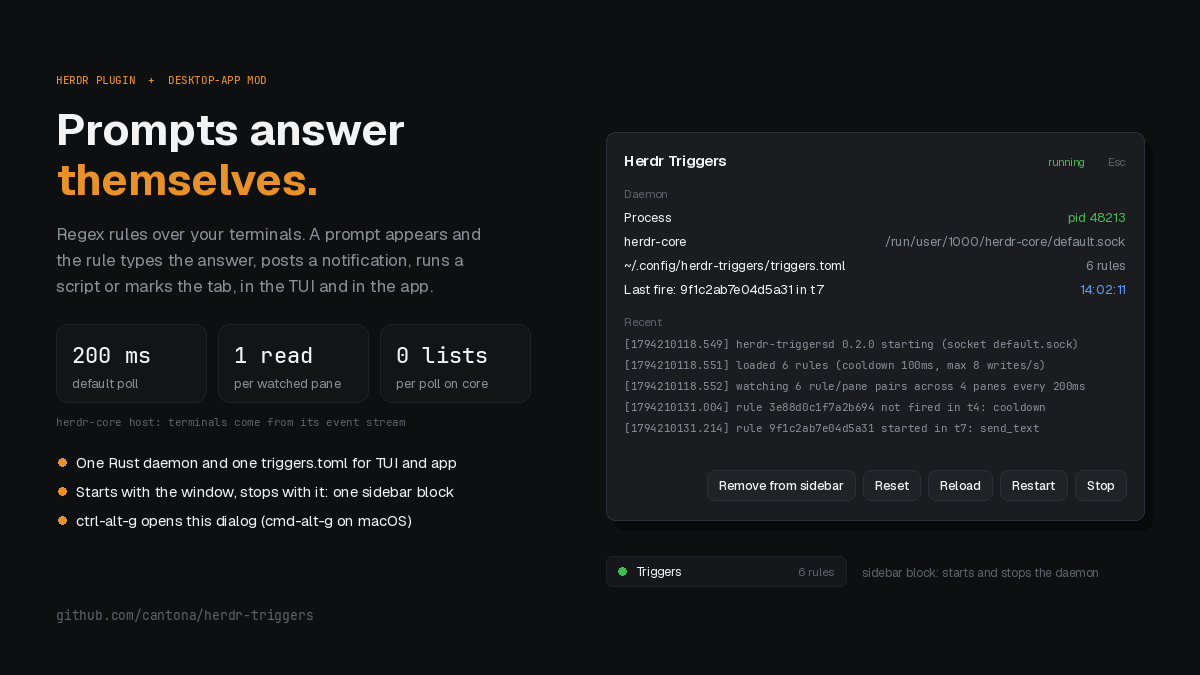
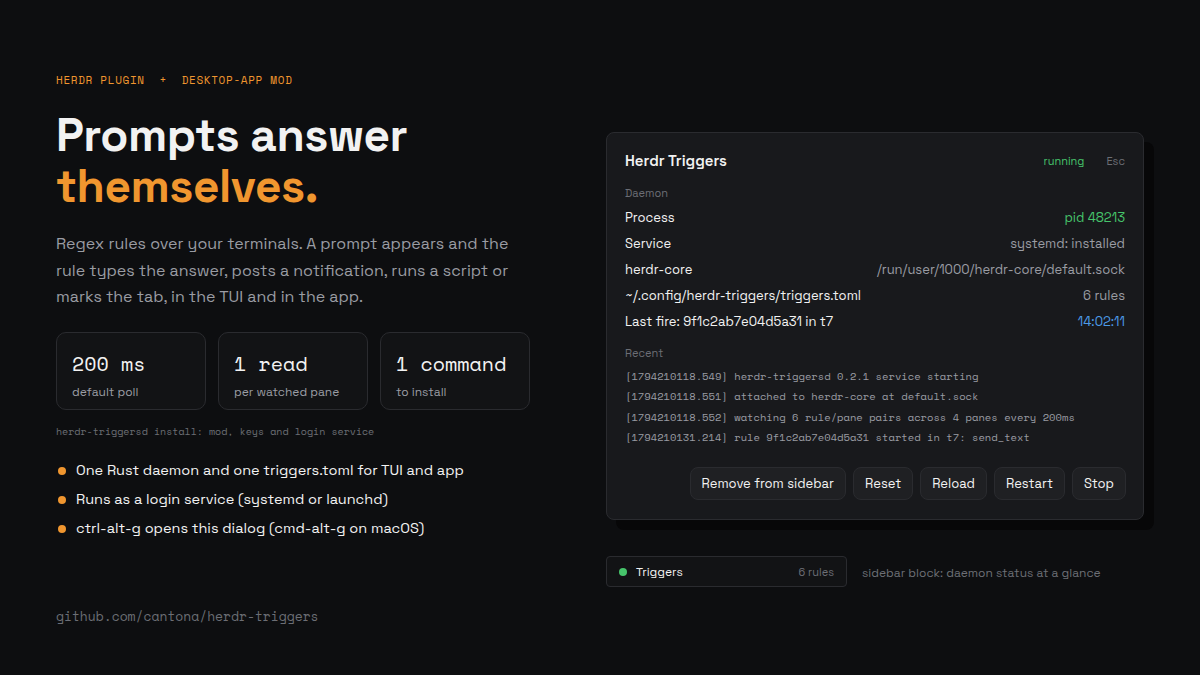
docs: describe the one-command install and the login service

diff --git a/RECIPE.md b/RECIPE.md
@@ -6,8 +6,8 @@ terminals: a prompt matches, and the rule types the answer, posts a desktop
 notification, runs a script or marks the tab. One `triggers.toml` serves both.
 
 A dialog, opened with `ctrl-alt-g` (`cmd-alt-g` on macOS), shows the daemon
-and runs its commands. A small sidebar block starts the daemon when the
-window opens, and the daemon leaves by itself once the app has quit.
+and runs its commands. The daemon itself is a login service that waits for
+herdr-core and follows it; an optional sidebar block shows its state.
 
 ![Herdr Triggers](preview.png)
 
@@ -15,21 +15,56 @@ window opens, and the daemon leaves by itself once the app has quit.
 
 ```sh
 cargo install --locked --git https://github.com/cantona/herdr-triggers
-mkdir -p ~/.config/herdr-app/mods
-cp -r mods/herdr-triggers ~/.config/herdr-app/mods/
+herdr-triggersd install          # shows the plan, asks y/N
 ```
 
-Merge `keys.json` into `~/.config/herdr-app/keys.json`.
+`install` prints one line per item (`create`, `update`, `unchanged`,
+`enable` or `start` for a service file whose service is not enabled or not
+running, or `skip` with the reason in the last column), then asks
+`Apply? [y/N]` on stderr. An `update` or `remove` of a mod file says so
+when local edits there would be lost. `--yes` applies without asking,
+`--dry-run` only prints. Without a terminal on both stdin and stderr, and
+without `--yes`, it prints the plan and exits 2. Run it as your user: as
+root with someone else's `HOME` (`sudo`) it refuses before touching
+anything, and it refuses a relative `XDG_CONFIG_HOME`, `XDG_STATE_HOME`,
+`HERDR_TRIGGERS_CONFIG_DIR`, `HERDR_TRIGGERS_STATE_DIR` or
+`HERDR_APP_HOME`. Nothing is written until the whole plan is computed,
+and the plan already checks that each file it writes can be written; a
+step that still fails stops the run and names the step, and running
+`install` again finishes the job. A `keys.json` that is not valid JSON
+(normal while you edit it: the app keeps its last good keymap) skips the
+two keys and nothing else; fix it and run `install` again.
+
+| Item | What install does | What uninstall does |
+|---|---|---|
+| `mods/herdr-triggers/main.js`, `mod.json` under the app home (`HERDR_APP_HOME` or `~/.config/herdr-app`) | writes them from the binary; other files there are left alone | removes the two and the app's own `gpui-kit.d.ts` and `jsconfig.json` (plain files only), then the folder; anything else there keeps the folder, and the plan says what |
+| `keys.json` `global`: `ctrl-alt-g`, `cmd-alt-g` | adds a missing key; a key bound (in any spelling of the same chord: `alt-ctrl-g`, `option-cmd-g`, any case) to something else, in `global` or in a `terminal` or `layout:<name>` section that takes precedence, is skipped, never overwritten; key order is kept, but the file is written back with 2-space indentation, and a key listed twice keeps only its last value. Never creates the file: the app writes it on first run, so open the app once before installing. After this edit the app stops adding its new default shortcuts to the file | removes only keys that still open this mod; the file stays |
+| `~/.config/herdr-triggers` | links it to the TUI plugin's config when that exists and the path is free | leaves it: it points at your rules |
+| login service | Linux: `herdr-triggers.service` in the user unit folder the systemd user manager searches (its `UnitPath`, read with `busctl --user`; `~/.config/systemd/user` when it lists none, and the plan says so), then `systemctl --user enable --now`. Where systemd does not run at all (no `/run/systemd/system`: a container, a distro without it) it is skipped, and `herdr-triggersd --host core start` runs the daemon detached. Where systemd runs but this session cannot reach the user manager (`su -`, `sudo -iu`, cron, a shell without `XDG_RUNTIME_DIR`), it is skipped too, with a note to run install from your desktop session, and a running daemon is left alone. macOS: `~/Library/LaunchAgents/io.github.cantona.herdr-triggers.plist`, then `launchctl bootstrap` | `disable --now` or `bootout`, then removes the file. Without systemd it only removes `~/.config/systemd/user/herdr-triggers.service`; with systemd out of reach from the session it leaves the service alone and says to run uninstall from your desktop session (the rest of uninstall still runs) |
+
+The service runs the binary at the path your shell finds it (a
+`~/.local/bin` symlink stays a symlink), else the one install runs from,
+and the plan's service line names it (`runs <path>`): an install from a
+build tree would tie the service to that tree. It runs with your shell's
+`PATH`, so rule scripts and `notify-send` resolve as they do for you. Every
+directory variable is pinned in the unit or plist as the command line
+resolves it:
+`XDG_CONFIG_HOME` and `XDG_STATE_HOME` always (defaults included), and
+`HERDR_TRIGGERS_CONFIG_DIR`, `HERDR_TRIGGERS_STATE_DIR` and `HERDR_APP_HOME`
+(for `tab_mark`) as your shell has them, or empty when it does not. So the
+service reads the rules and state the command line does, whatever the
+service manager's own environment says. Run `install` again after changing
+any of them. A daemon for
+the default core that the service did not start is stopped first, because
+it would hold the lock; install checks the default core's daemon from
+whichever core terminal it runs in. Should one hold the lock anyway, the
+service logs `another herdr-triggersd holds the lock; waiting for it` once
+and takes over when that daemon exits.
+
+`herdr-triggersd uninstall` takes the same flags.
 
 Rules and secrets live in `~/.config/herdr-triggers/` (`triggers.toml`, and
-`secrets.toml` with mode 0600). If you use the TUI plugin too, share its
-directory with one symlink:
-
-```sh
-ln -s ~/.config/herdr/plugins/config/cantona.herdr-triggers ~/.config/herdr-triggers
-```
-
-The rule schema is in the README.
+`secrets.toml` with mode 0600). The rule schema is in the README.
 
 ## What you see
 
@@ -37,9 +72,14 @@ The rule schema is in the README.
 corners, 13px text.
 
 - **Title row:** "Herdr Triggers" in 15px semibold `foreground`; the state
-  word on the right: "running" (`working`), "stopped" (`idle`), "error"
-  (`blocked`); a dim "Esc" hint.
-- **Daemon:** the process (`pid N` or "not running"), the herdr-core socket,
+  word on the right: "running" (`working`), "waiting" (`idle`), "stopped"
+  (`idle`), "error" (`blocked`); a dim "Esc" hint.
+- **Daemon:** the process (`pid N`, `pid N, waiting for herdr-core`, or "not
+  running"), the service ("systemd: installed", "launchd: installed", the
+  same with ", watches the default core, not this one" in an app on another
+  core session and " (not reachable from here)" when the app's session
+  cannot reach the systemd user manager, or "not installed; run
+  herdr-triggersd install"), the herdr-core socket,
   the config path with its rule count (or "config error" and the message),
   and the last fire: rule, terminal and local time.
 - **Recent:** the last 20 daemon log lines in monospace, scrolling past
@@ -56,16 +96,51 @@ dot in the same state colors, "Triggers", and the rule count in `dim`. Below
 
 ## How it behaves
 
-- **Start and stop follow the app.** The block's `init` runs
-  `herdr-triggersd --host core --follow-app start` (idempotent). A daemon
-  started with `--follow-app` checks every 5s that the app's socket
-  (`~/.config/herdr-app/herdr-app.sock`, or under `HERDR_APP_HOME`)
-  answers, and exits once it has not for 10s, so an update's restart does
-  not stop it. The dialog's Start and Restart pass the same flag. Without
-  the block in the shown layout nothing starts automatically; use Start.
-- **Stop holds.** After Stop the block does not start the daemon again, not
-  on a layout switch, a mod reload or the next launch, until Start or
-  Restart. The dialog shows "The sidebar starts it: no" meanwhile.
+- **The service runs the daemon.** It starts at login and runs
+  `herdr-triggersd --host core service`. herdr-core has no stable unit to
+  bind to (it runs as transient, hash-named jobs), so the daemon waits for
+  core's socket instead: it tries every 2s, attaches once the core answers,
+  and when the core goes away it logs `herdr-core gone; waiting for it` and
+  waits again. While it waits, `status` says "waiting for herdr-core" and
+  the dialog's state word is "waiting". That starts only once the engine
+  gives up on the core, 30s after it stopped answering; until then `status`
+  and the dialog still say "running". Closing and reopening the app does
+  not touch it. If core's config moves the socket to another name, the
+  service logs `herdr-core's socket moved to <path>; restarting to follow
+  it` and exits 1, and the service manager starts it again with the state
+  directory for the new name.
+- **Start, Stop, Restart.** With the service installed, Start (and
+  `herdr-triggersd --host core start`) asks the service manager to start
+  it, so it stays supervised. That holds only for the default core the
+  service watches; a start for another core session (`--session work`, or
+  from one of its terminals) detaches a daemon for that core. The service
+  is restarted 5s after any exit (`Restart=always`, launchd's `KeepAlive`),
+  so a plain `kill` or a crash does not turn triggers off. Stop therefore
+  goes through the service manager too (`systemctl --user stop`, or
+  `launchctl bootout` of the agent), and holds until Start, Restart, a
+  re-run of `install` or the next login. A daemon the service did not start
+  is stopped as well, after the service, so nothing takes its place. If the
+  manager refuses, `stop` reports its error and exits 1 without signalling
+  the service's daemon, which the manager would only start again. From a
+  session that cannot reach the systemd user manager at all (`su -`, cron),
+  `start`, `stop` and `restart` aimed at the service's core signal and start
+  nothing: they exit 1 and say to run them from your desktop session, and
+  `status` shows the service as installed but not reachable (the dialog:
+  "installed (not reachable from here)"). For another core, or without
+  the service, Stop sends SIGTERM as before;
+  there, a service waiting behind a stopped daemon takes over within 2s, and
+  `stop` says so when it sees that happen. Programs a `run` action started
+  keep running through a Stop or Restart of the service
+  (`KillMode=process`, launchd's `AbandonProcessGroup`), as they did beside
+  a detached daemon. Restart is Stop, then Start; when the manager refuses
+  the stop but nothing is left running, Restart warns and starts anyway
+  (falling back to a detached daemon as Start does). Without the service,
+  Start detaches a daemon as in 0.2.0, and so does a Start whose service
+  manager refuses (no user bus in that session, say): it prints the
+  manager's error and says it is starting a detached daemon instead.
+- **The block only shows state.** It reads status when it opens, and again
+  a few times, 3s apart, while the daemon is still waiting for the core. It
+  starts nothing.
 - **Adding the block.** Shipped layouts refuse structural edits. On a
   shipped layout the button first clones it to `<name>-triggers` and the app
   switches to the clone; press "Add to sidebar" then. The block is inserted
@@ -82,12 +157,14 @@ dot in the same state colors, "Triggers", and the rule count in `dim`. Below
 - **Cost.** The daemon learns about terminals from herdr-core's event stream;
   a poll reads only the screens a rule watches. Typing goes to the terminal
   as raw bytes through `terminal.attach`, exactly the rule's text.
-- **The core leaving.** The daemon exits after herdr-core has been
-  unreachable for 30s.
-- **No timers in the mod.** Status is read when a copy starts and after each
-  button. The block renders the state word and rule count the dialog
-  shares; the log and messages stay in the dialog, because the app saves
-  shared values to a file other local users can read.
+- **The core leaving.** After herdr-core has been unreachable for 30s the
+  engine lets go of it; the service then waits for it again. A daemon
+  started with `run` or a detached `start` exits instead.
+- **No standing timers in the mod.** Status is read when a copy starts,
+  after each button, and in the block's short settle loop above. The block
+  renders the state word and rule count the dialog shares; the log and
+  messages stay in the dialog, because the app saves shared values to a file
+  other local users can read.
 
 ## Differences from the TUI host
 
@@ -101,8 +178,10 @@ dot in the same state colors, "Triggers", and the rule count in `dim`. Below
 ## Command line
 
 ```sh
+herdr-triggersd install|uninstall [--yes | --dry-run]
 herdr-triggersd --host core status --json
 herdr-triggersd --host core start|stop|restart|reload|reset
+herdr-triggersd --host core service                 # what the login service runs
 herdr-triggersd --host core status --session work   # another hc session
 herdr-triggersd --host core restart --all           # every hc session
 herdr-triggersd --host core status --json --all     # one JSON object per line
@@ -121,23 +200,24 @@ State lives in `~/.local/state/herdr-triggers/core-<session>/`.
 
 ## Watch out
 
-- `herdr-triggersd` must be on the PATH the app process has: `exec` runs it
-  by bare name. `cargo install` puts it in `~/.cargo/bin`, which a Linux
+- `herdr-triggersd` must be on the PATH the app process has: the dialog's
+  `exec` runs it by bare name. (The service does not need this; its unit
+  names the binary by full path.) `cargo install` puts it in `~/.cargo/bin`, which a Linux
   desktop session started outside your shell may not have; link it into a
   directory that session has (for example `~/.local/bin`) if the dialog
   says herdr-triggersd could not be started.
 - The dialog acts on the herdr-core session that `HC_SESSION` names in the
   environment the app's `exec` provides (`default` without it).
-- A daemon started from a terminal without `--follow-app` is left running
-  when the app finds it; the dialog shows "Leaves when the app quits: no"
-  until Restart starts it with the flag.
-- Switching to a layout without the block leaves the daemon running; it
-  stops when the app quits, or with Stop.
+- The service always watches the default core session, at the socket
+  core's config `socket` key names if it has one; `HC_SESSION` and
+  `HC_SOCKET` in the service manager's environment are ignored. Another
+  session needs its own `herdr-triggersd --host core start --session <name>`, which detaches
+  as before.
+- `--follow-app` still works for a 0.2.0 mod or a script, but nothing in
+  0.2.1 passes it.
 - On herdr-core a `notify` that the desktop notifier could not show (it is
   missing or it failed) keeps the rule armed, so a `once` rule is not used
   up; it is retried with backoff, as a missing `run` program is.
-- The block starts the daemon when it first shows. With the sidebar column
-  hidden at launch nothing starts until it is shown, or until Start.
 - `tab_mark` takes the tab's name from herdr-core's `where` label. On a tab
   nobody named, that is its number, so marking it names it ("! 1"), and the
   name no longer follows the tab's place; rename it to "" to undo. A space
@@ -149,8 +229,14 @@ State lives in `~/.local/state/herdr-triggers/core-<session>/`.
 
 - `herdr-app check mods/herdr-triggers` passes.
 - `ctrl-alt-g` (`cmd-alt-g` on macOS) opens the dialog; Esc closes it.
-- Start makes the state word "running"; Stop makes it "stopped".
-- With the block in the sidebar, the daemon is gone within about 20s of
-  quitting the app (one check every 5s, then 10s of patience), and
-  reopening the app starts it again.
+- `herdr-triggersd install --dry-run` lists the plan; `install --yes`
+  applies it, and a second `install` reports every line `unchanged`.
+- `systemctl --user status herdr-triggers` (Linux) or `launchctl print
+  gui/$(id -u)/io.github.cantona.herdr-triggers` (macOS) shows the job
+  running, and the dialog shows "Service: ... installed".
+- Start makes the state word "running"; Stop makes it "stopped", and it
+  stays stopped. `kill` of the service's pid brings it back within about
+  5s.
+- Closing and reopening the app leaves the daemon running, and a rule still
+  fires.
 - With `herdr-triggersd` off PATH, the dialog shows the install command.

diff --git a/README.md b/README.md
@@ -82,17 +82,32 @@ and state dir it resolved to.
 ## Desktop app (herdr-core)
 
 The same daemon watches the Herdr desktop app's terminals, which live in
-herdr-core: `herdr-triggersd --host core ...`. `mods/herdr-triggers` is the
-app side: a dialog (`ctrl-alt-g`, `cmd-alt-g` on macOS) with the daemon's
-status and controls, and a sidebar block that starts the daemon with
-`--follow-app` when the window opens; such a daemon exits once the app has
-been closed for 10 s. `RECIPE.md` has the install
-steps and what differs on that host: notifications are desktop
-notifications, `tab_mark` needs the window open, and `[settings] source` is
-ignored. Rules, secrets and timing are shared code, so a `triggers.toml`
-behaves the same on both hosts. The app side reads it from
-`~/.config/herdr-triggers/`, usually a symlink to the plugin's config
-directory.
+herdr-core: `herdr-triggersd --host core ...`. Two commands set it up:
+
+```sh
+cargo install --locked --git https://github.com/cantona/herdr-triggers
+herdr-triggersd install          # shows the plan, asks y/N
+```
+
+`install` writes the mod (`mods/herdr-triggers`: a dialog on `ctrl-alt-g`,
+`cmd-alt-g` on macOS, and an optional sidebar status block), adds those two
+bindings to the app's `keys.json` without overwriting a key you have bound
+elsewhere (open the app once first, so that file exists; once edited, the
+app stops adding its new default shortcuts to it, and install rewrites its
+formatting), links `~/.config/herdr-triggers` to the TUI plugin's config
+directory when that exists, and installs a login service: a systemd user
+unit on Linux (skipped where systemd does not run, and `start` then runs
+the daemon detached; run install from your desktop session, since a `su`
+or cron session cannot reach the user manager), a launchd agent on macOS. The service runs
+`herdr-triggersd --host core service`, which waits for herdr-core's socket,
+attaches when the core answers, and goes back to waiting 30 s after it
+stops answering, so the daemon no longer depends on the app's window or
+layout. `--dry-run` prints the plan only, `--yes` applies without asking,
+and `uninstall` reverses it. `RECIPE.md` has the details and what differs on that host:
+notifications are desktop notifications, `tab_mark` needs the window open,
+and `[settings] source` is ignored. Rules, secrets and timing are shared
+code, so a `triggers.toml` behaves the same on both hosts. The app side
+reads it from `~/.config/herdr-triggers/`.
 
 ## Example: automated login
 
